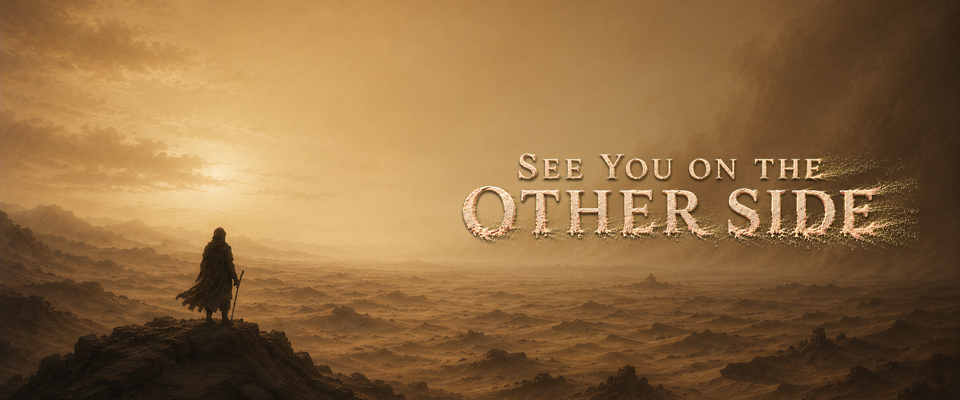
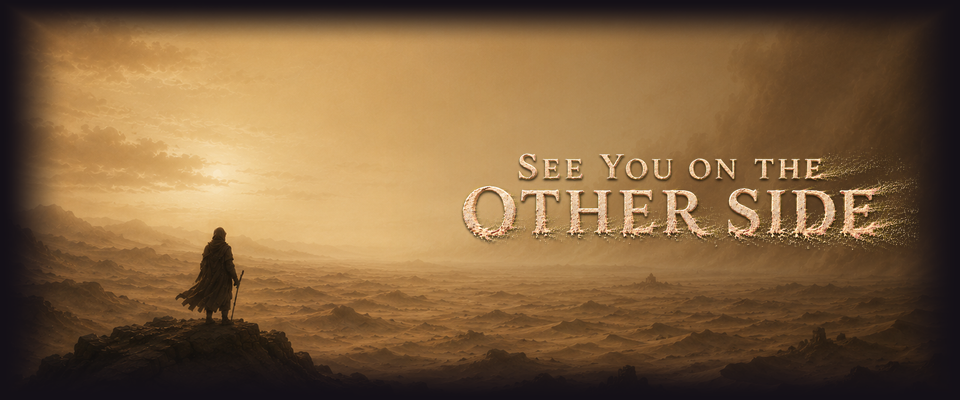
feat(promo): itch 배너 용해판 + 임베드 배경 — 마지막 이질감 제거
- 배너 사방을 #141017 로 용해(상단 네모 딱 잘림 제거, 같은 파일명 교체)
- 임베드배경_1280x720: 사막 단면(18)을 어둡게 — Run game 기본 회색 상자 대체(권장)
- README: 이미지 재업로드 시 Fixed 초기화 경고(스크롤 배경 소실의 원인)

Claude-Session: 8a9f2216-cb00-4bee-b0aa-c43009bfe99c

Changed region(s): [[0.0, 0.0, 1.0, 0.96], [0.3125, 0.87, 0.9688, 1.0]]

diff --git a/itch_업로드/README.md b/itch_업로드/README.md
@@ -32,7 +32,8 @@
 프로젝트를 저장하고 **페이지 보기(View page)** 로 가면 상단에 **"Edit theme"** 버튼이 뜬다.
 누르면 왼쪽에 테마 패널이 열린다 — 여기서:
 
-- **Banner**: `배너_960x400.png` 업로드 · Align Center (로고가 들어 있으니 텍스트 제목 표시는 꺼도 된다)
+- **Banner**: `배너_960x400.png` 업로드 · Align Center (로고가 들어 있으니 텍스트 제목 표시는 꺼도 된다.
+  가장자리가 #141017 로 녹아 있어 네모로 딱 잘려 보이지 않는다 — 교체 후 반드시 재업로드)
 - **Background image**: `배경_2560x1440.png` · Repeat None · Align Center · **Fixed ✔ (핵심!)**
   Fixed = 배경을 문서가 아니라 화면에 고정 — 본문이 아무리 길어도 배경은 항상 화면만큼만 보인다
   (반복이 필요 없는 이유). itch 는 배경을 창 크기에 맞춰 늘려 주지 않으므로(원본 고정) 이 파일은:
@@ -43,9 +44,10 @@
   배경 그림의 용해 색과 같아서 경계선이 어디에도 안 생긴다. Text `#F6ECD4` · Link `#D6B278`
 - **Font**: Serif · Size Large
 - Screenshots 표시 위치(사이드바)도 여기서 정한다
-- **맨 아래 빨간 Save 를 눌러야 확정된다** — 본문 칸이 여전히 흰 바탕에 검은 글씨면
-  Save 를 안 눌렀거나 BG2/Text 가 아직 안 먹은 상태다. Save → 새로고침으로 확인.
-- (선택) **Embed BG**: 게임 실행 칸(Run game 박스)의 배경 — 밋밋하면 `배경_2560x1440.png` 를 여기도.
+- **맨 아래 빨간 Save 를 눌러야 확정된다.** ⚠ **이미지를 재업로드하면 Fixed 같은 옵션이
+  초기화될 수 있다** — 배경을 갈아 끼운 뒤 스크롤에 배경이 밀려 올라가면 Fixed 를 다시 체크(2026-07-26 실사례).
+- **Embed BG**: `임베드배경_1280x720.png` — 게임 실행 칸(Run game 박스)이 기본 회색 상자라
+  페이지에서 제일 이질적이다. 이걸 올리면 실행 전 대기 칸도 세계의 사막으로 바뀐다(권장).
 
 ## 이미지는 어디에 올리나 — 둘 다 쓴다
 
